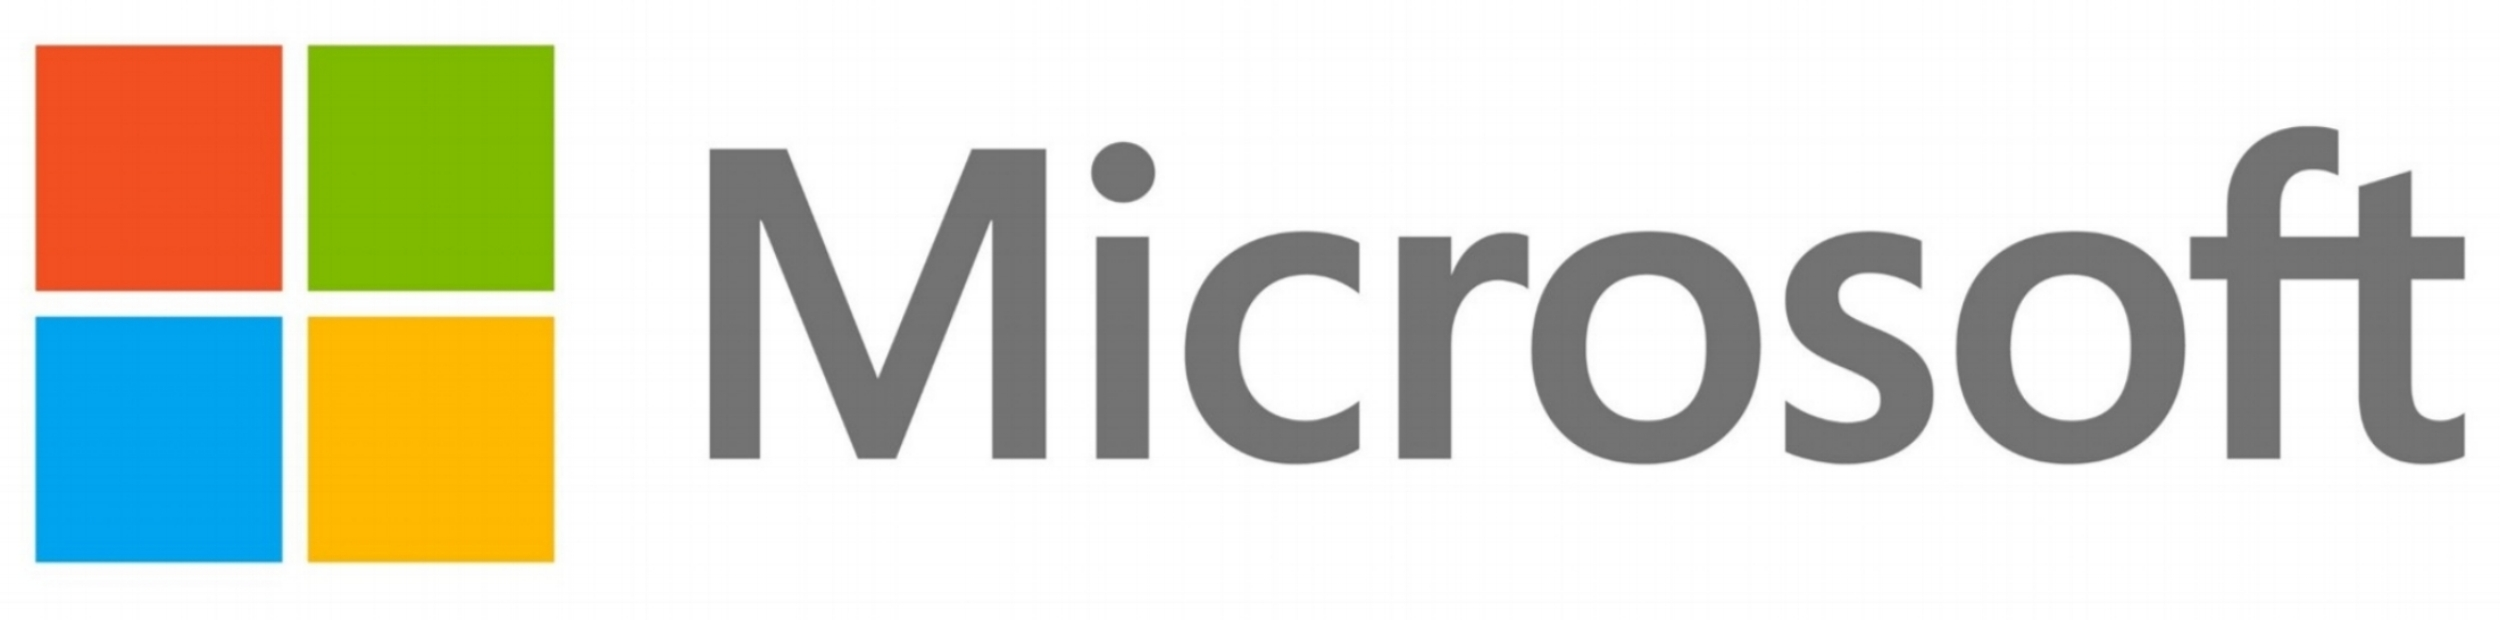
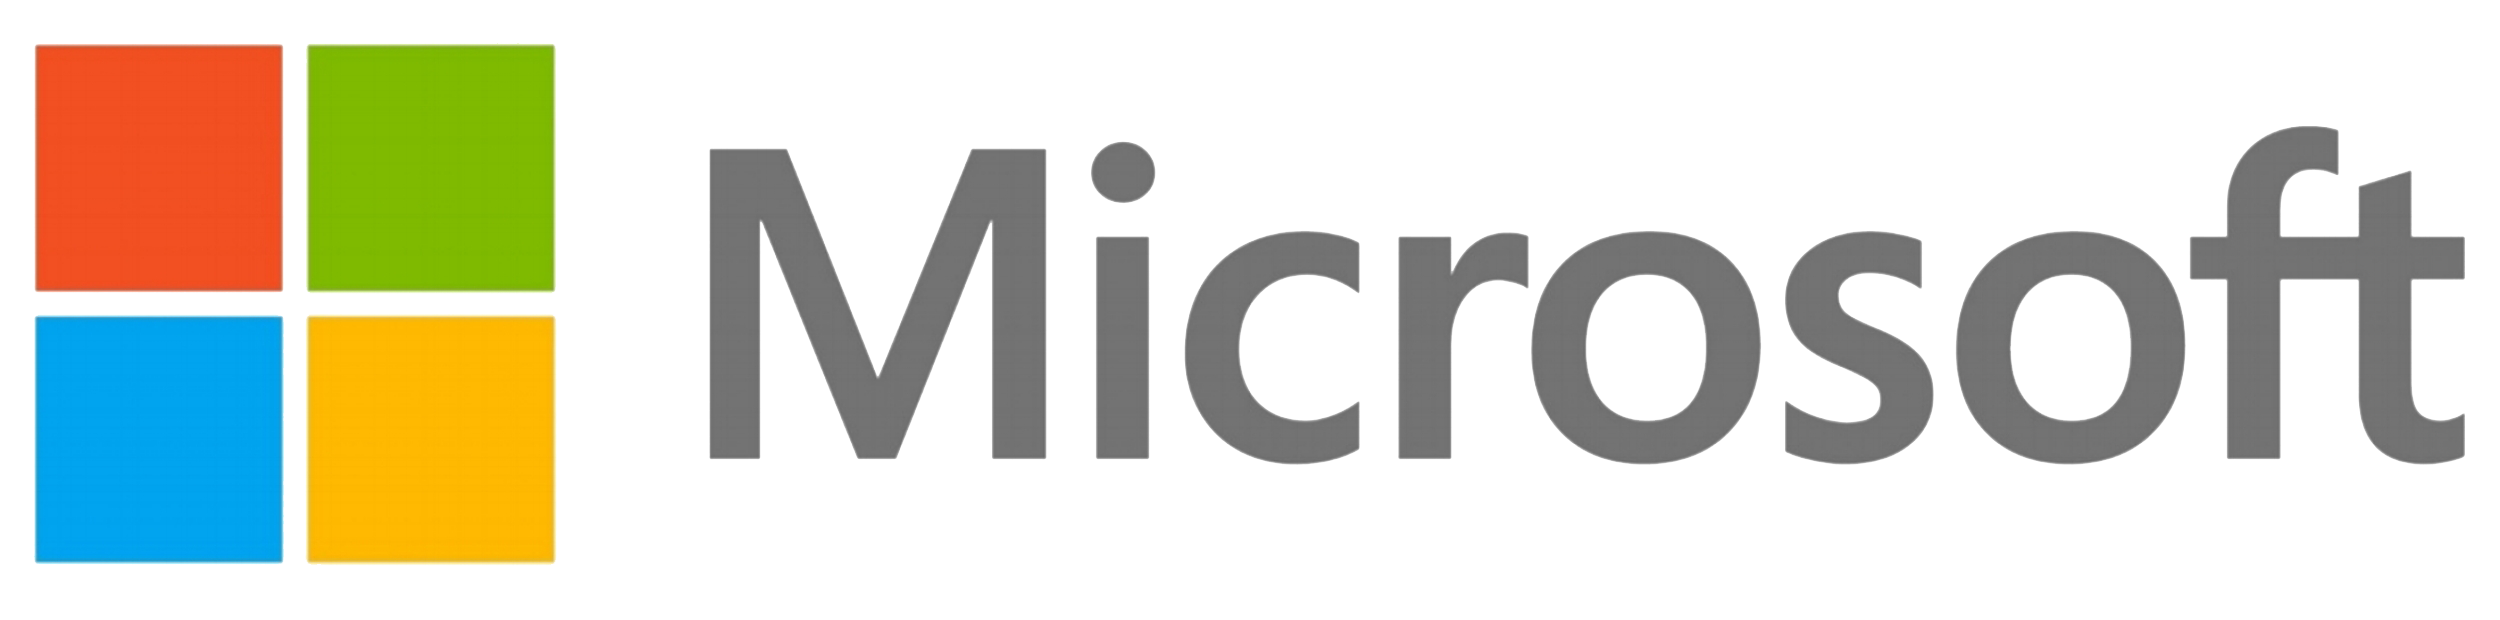
убрал фон у картинок,

Changed region(s): [[0.156, 0.0613, 0.2184, 0.0919]]

diff --git a/css/style.css b/css/style.css
@@ -6,7 +6,6 @@ body {
  }
   
   .header {
-    
     padding: 20px 0;
     box-shadow: 0 2px 5px rgba(0, 0, 0, 0.1);
 
@@ -83,7 +82,7 @@ body {
   
   .trust-section {
     padding: 60px 0;
-    background-color: #f4f4f4;
+    background-color: #fff;
     text-align: center;
     
   }
@@ -329,5 +328,81 @@ body {
   footer a:hover {
     color: #333;
     text-decoration: underline;
+  }
+
+  @media only screen and (max-width: 600px) {
+
+
+body {
+  margin: 0;
+  padding: 0;
+}
+
+* {
+  font-size: 16px;
+}
+
+.logo {
+  width: 100%;
+  text-align: center;
+}
+
+.nav {
+  margin: 0;
+  padding: 0;
+}
+
+.nav-link {
+  font-size: 14px;
+  font-weight: bold;
+}
+
+.menu-icon {
+  font-size: 24px;
+}
+
+.info-block img {
+  width: 50%;
+}
+
+.info-block p {
+  font-size: 14px;
+}
+
+.trust-block img {
+  width: 75%;
+}
+
+.trust-block {
+  font-size: 14px;
+}
+
+.input-field {
+  font-size: 14px;
+}
+
+.search-button {
+  width: 100%;
+}
+
+.promo-block h3 {
+  font-size: 14px;
+}
+
+.promo-block p {
+  font-size: 12px;
+}
+
+.subscribe-section h2 {
+  font-size: 14px;
+}
+
+.subs {
+  font-size: 14px;
+}
+
+.footer {
+  font-size: 14px;
+}
   }
 

diff --git a/index.html b/index.html
@@ -90,20 +90,20 @@
         <img src="media/promo1.png">
         <h3>Скидка 50% на билеты в Токио</h3>
         <p>Описание акции</p>
-        <a href="#" class="promo-button">Подробнее</a>
+        <a href="##" class="promo-button">Подробнее</a>
         <p class="promo-descr" style="display:none;">Дополнительный текст акции.</p>
       </div>
       <div class="promo-block">
         <img src="media/promo2.png">
         <h3>Специальное предложение для путешественников</h3>
         <p>Описание акции</p>
-        <a href="#" class="promo-button">Подробнее</a>
+        <a href="##" class="promo-button">Подробнее</a>
       </div>
       <div class="promo-block">
         <img src="media/promo3.png">
         <h3>Скидка 30% на билеты в Барселону</h3>
         <p>Описание акции</p>
-        <a href="#" class="promo-button">Подробнее</a>
+        <a href="##" class="promo-button">Подробнее</a>
       </div>
     </div>
   </section>
